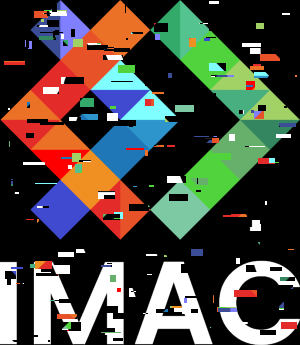
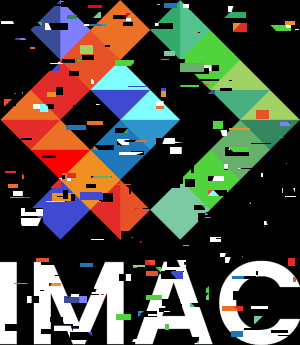
kuwahara better
but need to delete the repetition of code...

diff --git a/src/main.cpp b/src/main.cpp
@@ -5,7 +5,6 @@
 #include <glm/gtx/matrix_transform_2d.hpp>
 #include <utility>
 
-
 void allGreen(sil::Image &image)
 {
     for (glm::vec3 &color : image.pixels())
@@ -447,7 +446,7 @@ std::vector<std::vector<float>> generateKernelBlurHorizontal(int size)
 {
     sil::Image kuwaharaImage{image.width(), image.height()};
 
-    std::vector<std::pair<glm::vec3,float>> listRegion;
+    std::vector<std::pair<glm::vec3, float>> listRegion;
     std::pair<glm::vec3, float> pair;
 
     for (int x{0}; x < image.width(); x++)
@@ -455,16 +454,8 @@ std::vector<std::vector<float>> generateKernelBlurHorizontal(int size)
         for (int y{0}; y < image.height(); y++)
         {
 
-
-
             glm::vec3 averageColor{};
-            glm::vec3 averageColor2{};
-            glm::vec3 averageColor3{};
-            glm::vec3 averageColor4{};
             float standardDeviation{0};
-            float standardDeviation2{0};
-            float standardDeviation3{0};
-            float standardDeviation4{0};
 
             if (x - 2 > 0 && x - 1 > 0 && y + 1 < image.height() && y + 2 < image.height())
             {
@@ -482,7 +473,7 @@ std::vector<std::vector<float>> generateKernelBlurHorizontal(int size)
                 standardDeviation = std::sqrt(standardDeviation);
 
                 pair.first = averageColor;
-                pair.second= standardDeviation;
+                pair.second = standardDeviation;
                 listRegion.push_back(pair);
             }
 
@@ -492,71 +483,70 @@ std::vector<std::vector<float>> generateKernelBlurHorizontal(int size)
                 averageColor += image.pixel(x + 2, y + 1);
                 averageColor += image.pixel(x + 1, y + 2);
                 averageColor += image.pixel(x + 1, y + 1);
-                averageColor = averageColor2 / 4.f;
+                averageColor = averageColor / 4.f;
 
-                standardDeviation2 = std::pow(image.pixel(x + 2, y + 2).r - averageColor2.r, 2);
-                standardDeviation2 += std::pow(image.pixel(x + 2, y + 1).r - averageColor2.r, 2);
-                standardDeviation2 += std::pow(image.pixel(x + 1, y + 2).r - averageColor2.r, 2);
-                standardDeviation2 += std::pow(image.pixel(x + 1, y + 1).r - averageColor2.r, 2);
-                standardDeviation2 = standardDeviation2 / 4.f;
-                standardDeviation2 = std::sqrt(standardDeviation2);
+                standardDeviation = std::pow(image.pixel(x + 2, y + 2).r - averageColor.r, 2);
+                standardDeviation += std::pow(image.pixel(x + 2, y + 1).r - averageColor.r, 2);
+                standardDeviation += std::pow(image.pixel(x + 1, y + 2).r - averageColor.r, 2);
+                standardDeviation += std::pow(image.pixel(x + 1, y + 1).r - averageColor.r, 2);
+                standardDeviation = standardDeviation / 4.f;
+                standardDeviation = std::sqrt(standardDeviation);
 
                 pair.first = averageColor;
-                pair.second= standardDeviation;
+                pair.second = standardDeviation;
                 listRegion.push_back(pair);
             }
 
             if (x - 2 > 0 && x - 1 > 0 && y - 1 > 0 && y - 2 > 0)
             {
-                averageColor3 = image.pixel(x - 2, y - 2);
-                averageColor3 += image.pixel(x - 2, y - 1);
-                averageColor3 += image.pixel(x - 1, y - 2);
-                averageColor3 += image.pixel(x - 1, y - 1);
-                averageColor3 = averageColor3 / 4.f;
+                averageColor = image.pixel(x - 2, y - 2);
+                averageColor += image.pixel(x - 2, y - 1);
+                averageColor += image.pixel(x - 1, y - 2);
+                averageColor += image.pixel(x - 1, y - 1);
+                averageColor = averageColor / 4.f;
 
-                standardDeviation3 = std::pow(image.pixel(x - 2, y - 2).r - averageColor3.r, 2);
-                standardDeviation3 += std::pow(image.pixel(x - 2, y - 1).r - averageColor3.r, 2);
-                standardDeviation3 += std::pow(image.pixel(x - 1, y - 2).r - averageColor3.r, 2);
-                standardDeviation3 += std::pow(image.pixel(x - 1, y - 1).r - averageColor3.r, 2);
+                standardDeviation = std::pow(image.pixel(x - 2, y - 2).r - averageColor.r, 2);
+                standardDeviation += std::pow(image.pixel(x - 2, y - 1).r - averageColor.r, 2);
+                standardDeviation += std::pow(image.pixel(x - 1, y - 2).r - averageColor.r, 2);
+                standardDeviation += std::pow(image.pixel(x - 1, y - 1).r - averageColor.r, 2);
 
-                standardDeviation3 = standardDeviation3 / 4.f;
-                standardDeviation3 = std::sqrt(standardDeviation3);
+                standardDeviation = standardDeviation / 4.f;
+                standardDeviation = std::sqrt(standardDeviation);
+
+                pair.first = averageColor;
+                pair.second = standardDeviation;
+                listRegion.push_back(pair);
             }
 
             if (x + 2 < image.width() && x + 1 < image.width() && y - 1 > 0 && y - 2 > 0)
             {
-                averageColor4 = image.pixel(x + 2, y - 2);
-                averageColor4 += image.pixel(x + 2, y - 1);
-                averageColor4 += image.pixel(x + 1, y - 2);
-                averageColor4 += image.pixel(x + 1, y - 1);
-                averageColor4 = averageColor4 / 4.f;
+                averageColor = image.pixel(x + 2, y - 2);
+                averageColor += image.pixel(x + 2, y - 1);
+                averageColor += image.pixel(x + 1, y - 2);
+                averageColor += image.pixel(x + 1, y - 1);
+                averageColor = averageColor / 4.f;
 
-                standardDeviation4 = std::pow(image.pixel(x + 2, y - 2).r - averageColor4.r, 2);
-                standardDeviation4 += std::pow(image.pixel(x + 2, y - 1).r - averageColor4.r, 2);
-                standardDeviation4 += std::pow(image.pixel(x + 1, y - 2).r - averageColor4.r, 2);
-                standardDeviation4 += std::pow(image.pixel(x + 1, y - 1).r - averageColor4.r, 2);
-                standardDeviation4 = standardDeviation4 / 4.f;
-                standardDeviation4 = std::sqrt(standardDeviation4);
+                standardDeviation = std::pow(image.pixel(x + 2, y - 2).r - averageColor.r, 2);
+                standardDeviation += std::pow(image.pixel(x + 2, y - 1).r - averageColor.r, 2);
+                standardDeviation += std::pow(image.pixel(x + 1, y - 2).r - averageColor.r, 2);
+                standardDeviation += std::pow(image.pixel(x + 1, y - 1).r - averageColor.r, 2);
+                standardDeviation = standardDeviation / 4.f;
+                standardDeviation = std::sqrt(standardDeviation);
+
+                pair.first = averageColor;
+                pair.second = standardDeviation;
+                listRegion.push_back(pair);
             }
 
-            float minStandardDeviation = std::min(std::min(standardDeviation1, standardDeviation2), std::min(standardDeviation3, standardDeviation4));
-
-            if (minStandardDeviation == standardDeviation1)
-            {
-                kuwaharaImage.pixel(x, y) = averageColor1;
+            float minStandardDeviation {listRegion[0].second};
+            for (std::pair onePair : listRegion){
+                if (onePair.second < minStandardDeviation){
+                    minStandardDeviation = onePair.second;
+                    averageColor = onePair.first;
+                }
             }
-            else if (minStandardDeviation == standardDeviation2)
-            {
-                kuwaharaImage.pixel(x, y) = averageColor2;
-            }
-            else if (minStandardDeviation == standardDeviation3)
-            {
-                kuwaharaImage.pixel(x, y) = averageColor3;
-            }
-            else if (minStandardDeviation == standardDeviation4)
-            {
-                kuwaharaImage.pixel(x, y) = averageColor4;
-            }
+            kuwaharaImage.pixel(x,y) = averageColor;
+            listRegion.clear();
         }
     }
     return kuwaharaImage;
@@ -566,7 +556,7 @@ int main()
 {
     sil::Image image{"images/logo.png"};
     sil::Image photo{"images/photo.jpg"};
-
+/*
     {
         sil::Image copy{image};
         allGreen(copy);
@@ -701,7 +691,7 @@ int main()
 
         sil::Image imageDifference{differenceGaussian(photo, 1, 5)};
         imageDifference.save("output/exercice19Difference.png");
-    }
+    }*/
 
     {
         sil::Image imageKuwahara{kuwahara(photo)};

diff --git a/README.md b/README.md
@@ -3,3 +3,7 @@
 Template de projet pour le workshop de prog des Imac1. Vous trouverez le sujet ici: https://dsmte.github.io/Learn--cpp_programming/Workshop
 
 [test](./build/)
+
+## fsdf
+
+## fd
